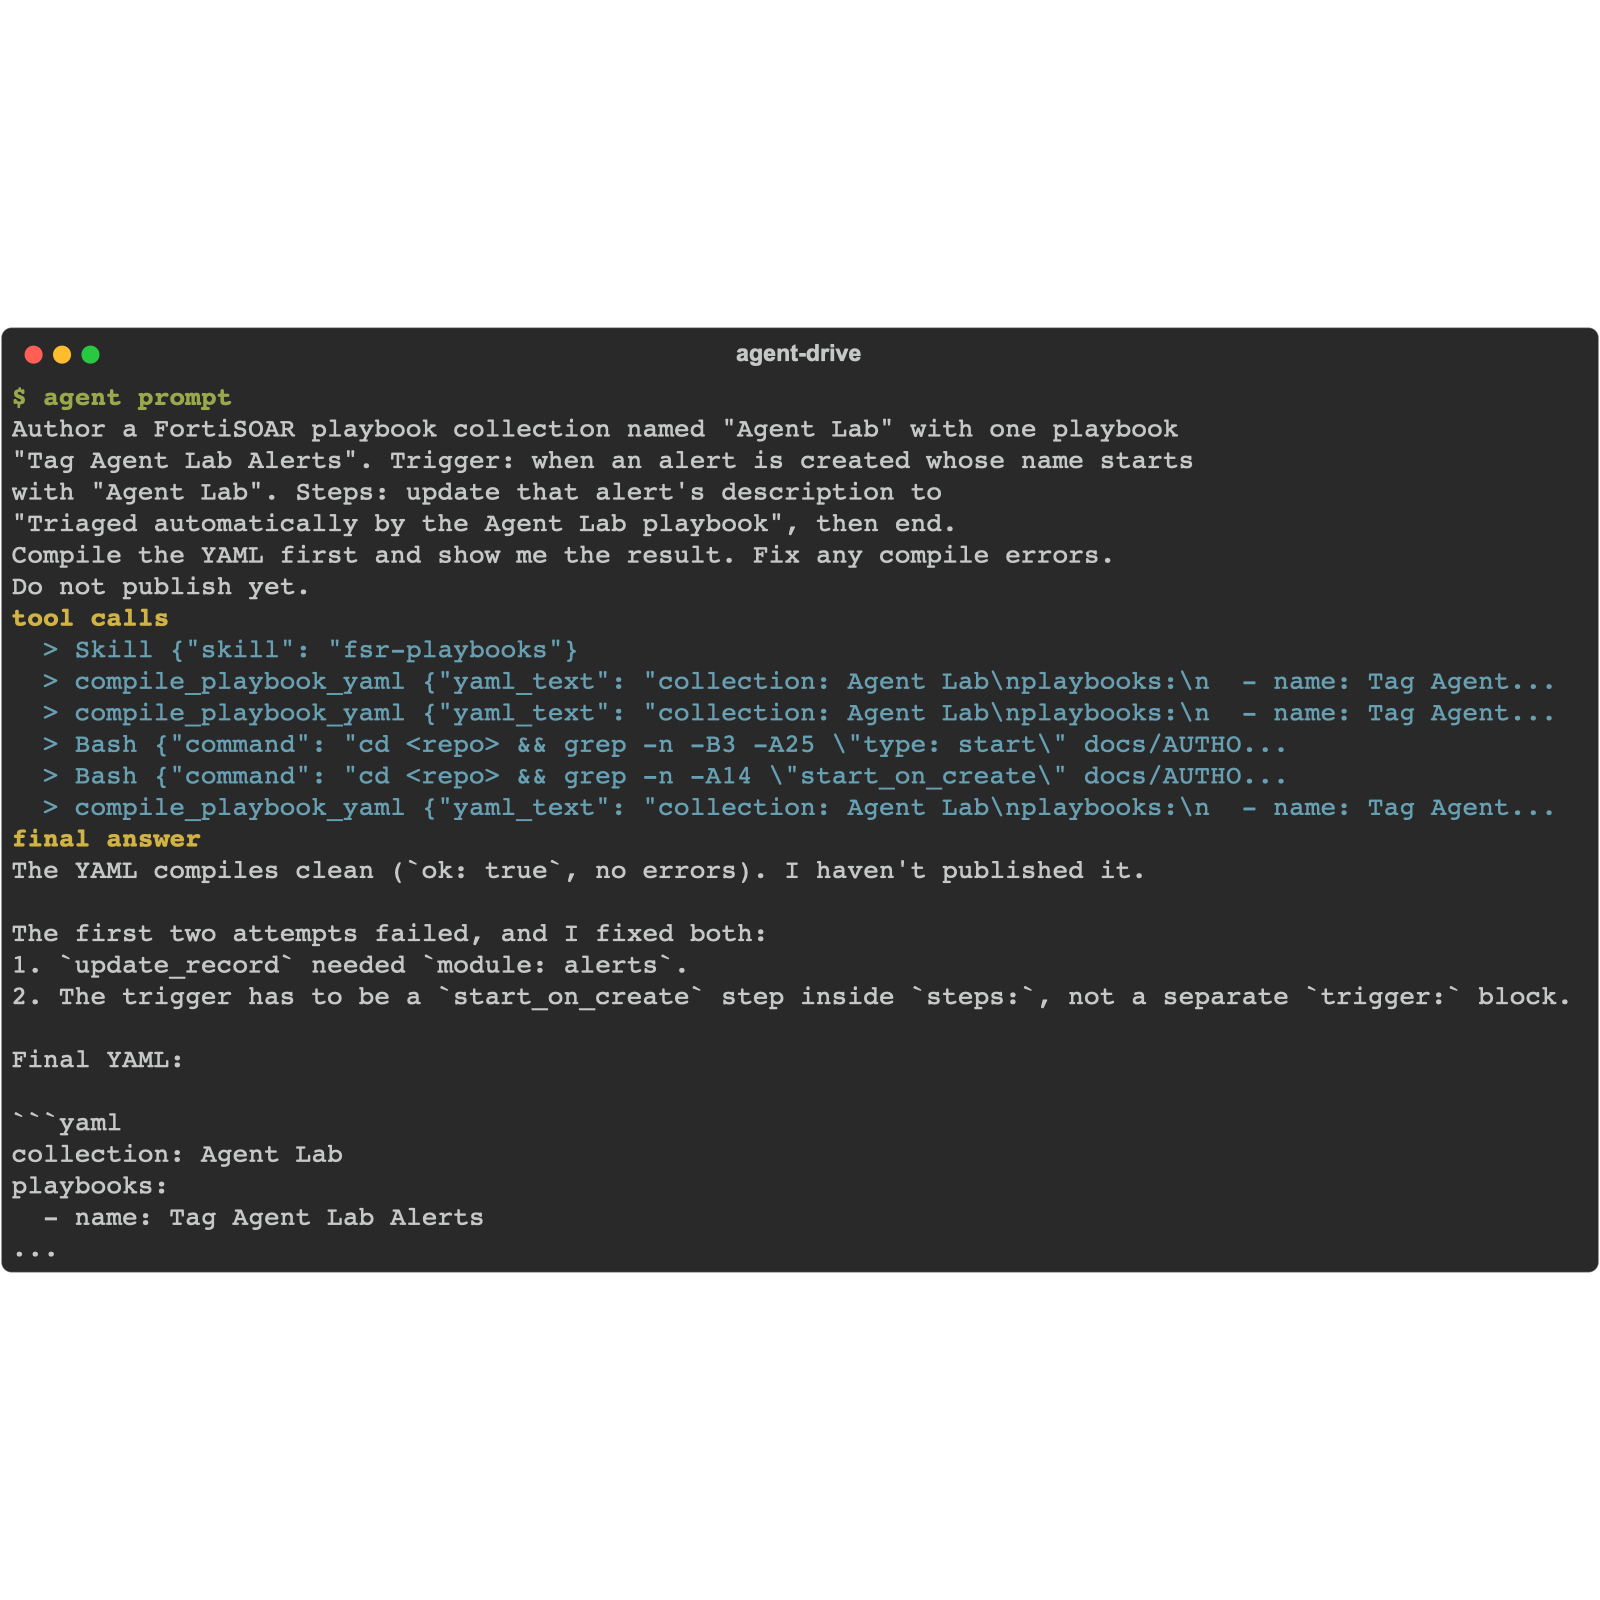
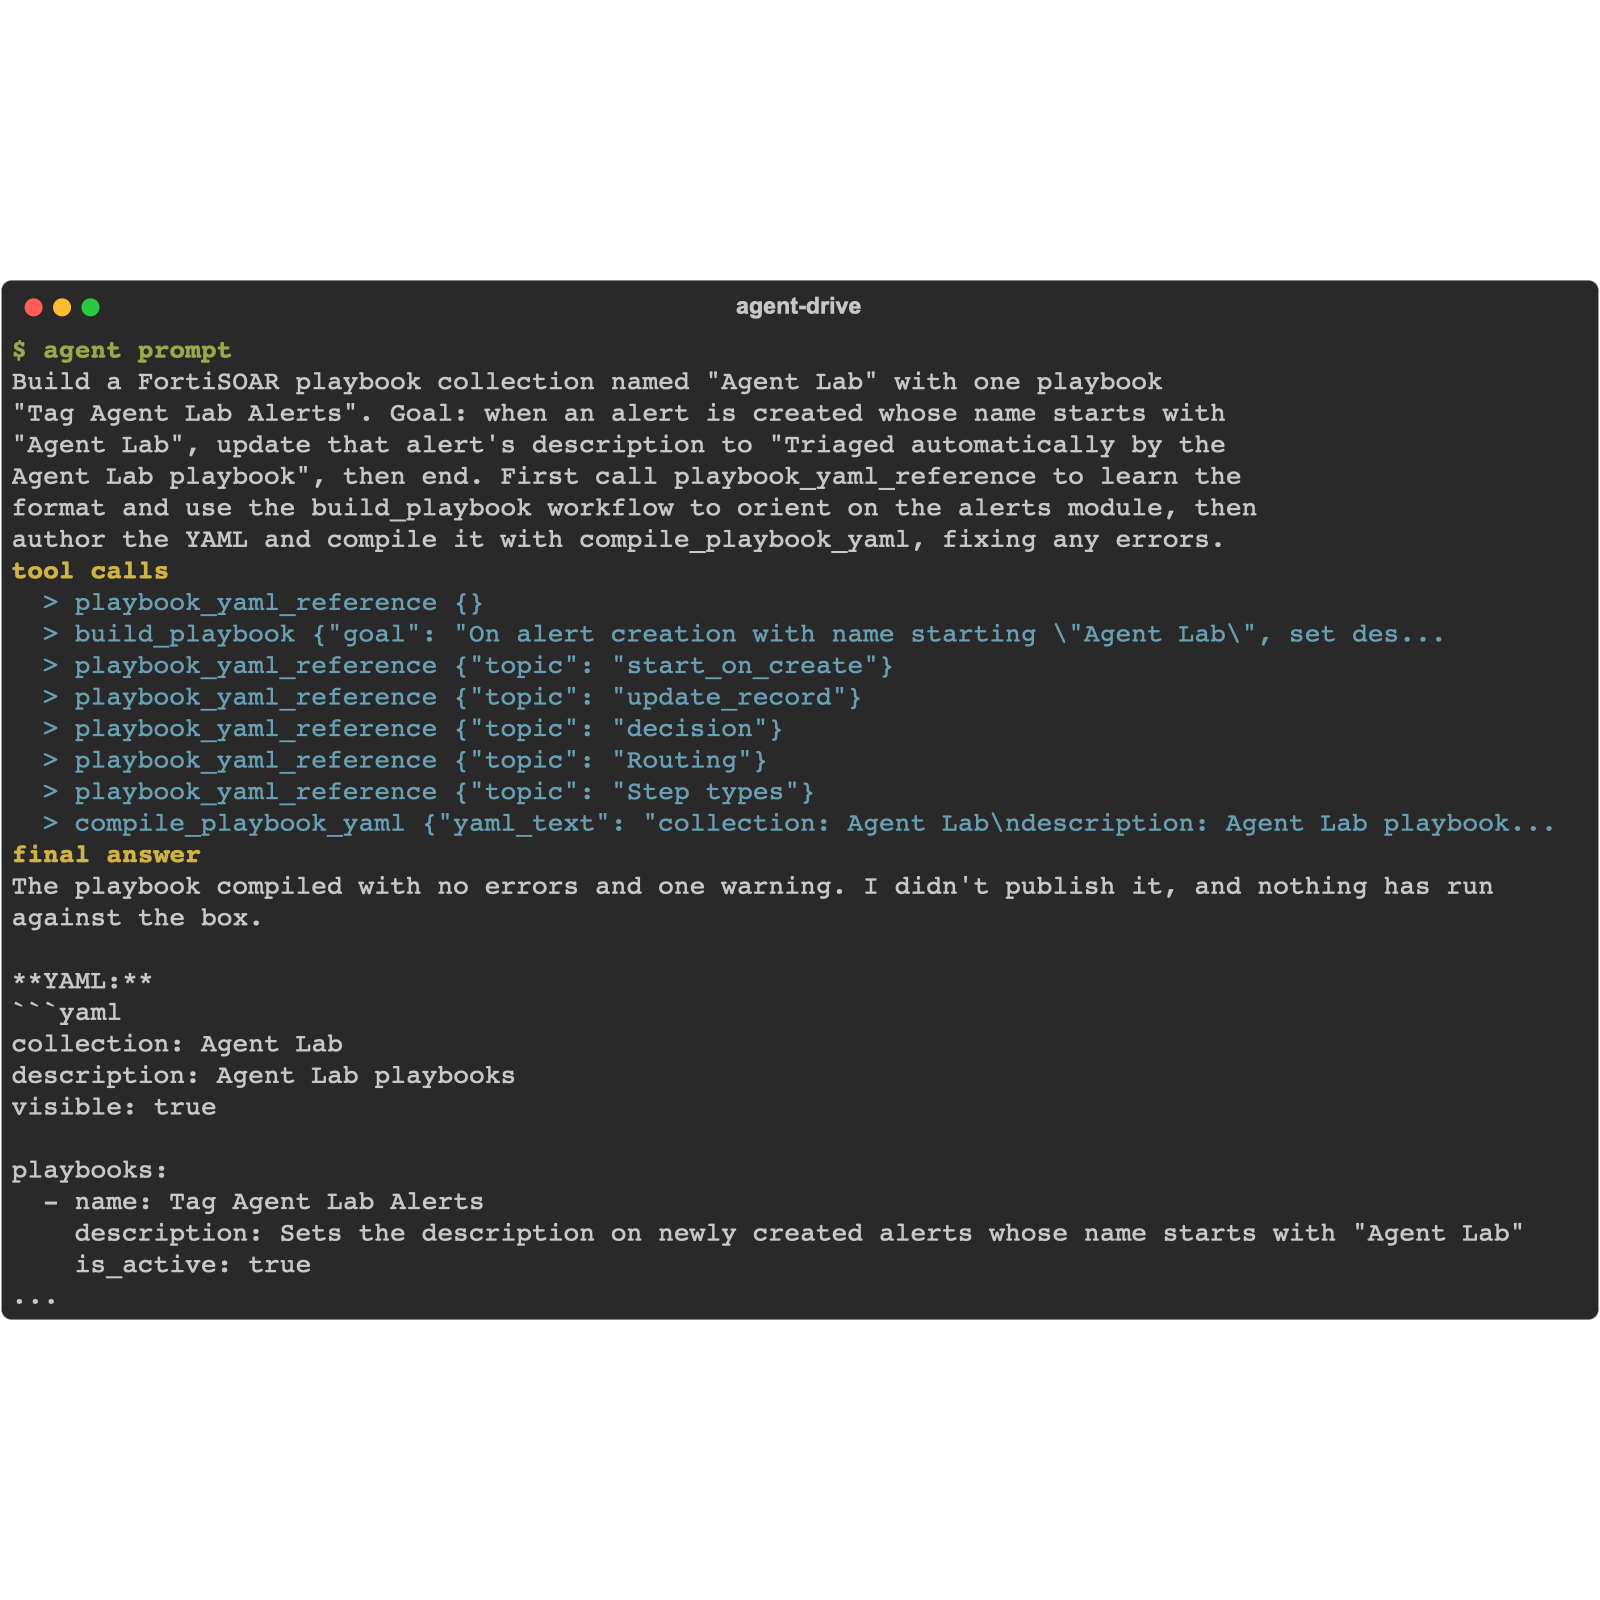
docs(ch6,ch8): refresh agent transcripts; mask URLs in render_shots
Regenerate the ch6 first-contact and ch8 author/publish agent-run shots from
fresh passing runs on the box:
- ch6: the agent lists 45 modules and summarizes the newest alerts with real
  analysis (health-vs-attack, duplicate detection, correlating a C2+phishing
  pair), ending read-only - a genuine first win instead of the old whoami failure
- ch8 #1: the agent learns the format from the toolkit's own
  playbook_yaml_reference + build_playbook, authors YAML, and compiles clean -
  no author-only Skill or local docs
- ch8 #2: the agent publishes the playbook and reads it back active

render_shots scrub now masks URLs (e.g. indicator URLs from alert data) while
keeping the example.com placeholder visible.

diff --git a/tools/agent-drive/render_shots.py b/tools/agent-drive/render_shots.py
@@ -51,6 +51,9 @@ def scrub(text: str) -> str:
     text = re.sub(r"~/PycharmProjects/[^\s\"']*", "<repo>", text)
     text = re.sub(r"\bdylanspille\b", "<user>", text, flags=re.I)
     text = re.sub(r"\b(?!203\.0\.113\.)\d{1,3}(?:\.\d{1,3}){3}\b", "<ip>", text)
+    # mask URLs (e.g. indicator/threat-intel URLs pulled from alert data); keep the
+    # example.com placeholder visible.
+    text = re.sub(r"https?://(?!(?:[\w.-]*\.)?example\.com\b)[^\s\"'<>)\]]+", "<url>", text)
     text = re.sub(r"\d{4}-\d{2}-\d{2}T[\d:.]+Z?", "<time>", text)
     text = re.sub(r"\b\d{4}-\d{2}-\d{2}\b", "<date>", text)
     text = re.sub(r"\b1[67]\d{8}\b", "<epoch>", text)

diff --git a/content/08-playbook/01-author-and-publish.md b/content/08-playbook/01-author-and-publish.md
@@ -93,12 +93,14 @@ Name the collection and playbook in the prompt (not "that playbook"): the publis
 ![08-playbook/01-author-and-publish#1](agent-run-01-author-and-publish-1.png)
 
 ```text
-  > Skill {"skill": "fsr-playbooks"}
-  > compile_playbook_yaml {"yaml_text": "collection: Agent Lab\nplaybooks:\n  - name: Tag Agent...
-  > compile_playbook_yaml {"yaml_text": "collection: Agent Lab\nplaybooks:\n  - name: Tag Agent...
-  > Bash {"command": "cd <repo> && grep -n -B3 -A25 \"type: start\" docs/AUTHO...
-  > Bash {"command": "cd <repo> && grep -n -A14 \"start_on_create\" docs/AUTHO...
-  > compile_playbook_yaml {"yaml_text": "collection: Agent Lab\nplaybooks:\n  - name: Tag Agent...
+  > playbook_yaml_reference {}
+  > build_playbook {"goal": "On alert creation with name starting \"Agent Lab\", set des...
+  > playbook_yaml_reference {"topic": "start_on_create"}
+  > playbook_yaml_reference {"topic": "update_record"}
+  > playbook_yaml_reference {"topic": "decision"}
+  > playbook_yaml_reference {"topic": "Routing"}
+  > playbook_yaml_reference {"topic": "Step types"}
+  > compile_playbook_yaml {"yaml_text": "collection: Agent Lab\ndescription: Agent Lab playbook...
 ```
 
 **`01-author-and-publish#2`** (Sonnet run, sanitized)
@@ -106,8 +108,8 @@ Name the collection and playbook in the prompt (not "that playbook"): the publis
 ![08-playbook/01-author-and-publish#2](agent-run-01-author-and-publish-2.png)
 
 ```text
-  > Bash {"command": "ls -la <repo>"}
-  > Bash {"command": "cd <repo> && find . -newer tools/agent-drive/run.py \\( ...
+  > publish_playbook {"yaml_text": "collection: Agent Lab\ndescription: Agent Lab playbook...
+  > get_record {"module": "workflows", "ref": "2e358ca7-bbed-5bd9-a7c9-54c29fcf524c"...
 ```
 
 </details>

diff --git a/content/06-setup-agent/02-wire-the-agent.md b/content/06-setup-agent/02-wire-the-agent.md
@@ -108,9 +108,9 @@ Notice what the agent did *not* reach for: `whoami`. With an **API-key** connect
 ![06-setup-agent/02-wire-the-agent#1](fsa06-04-whoami-claude.png)
 
 ```text
-  > whoami {}
   > list_modules {}
-  > appliance_info_identity {}
+  > query_records {"module": "alerts", "limit": 5, "sort": [{"field": "createDate", "di...
+  > query_records {"module": "alerts", "limit": 5, "sort": [{"field": "createDate", "di...
 ```
 
 </details>
